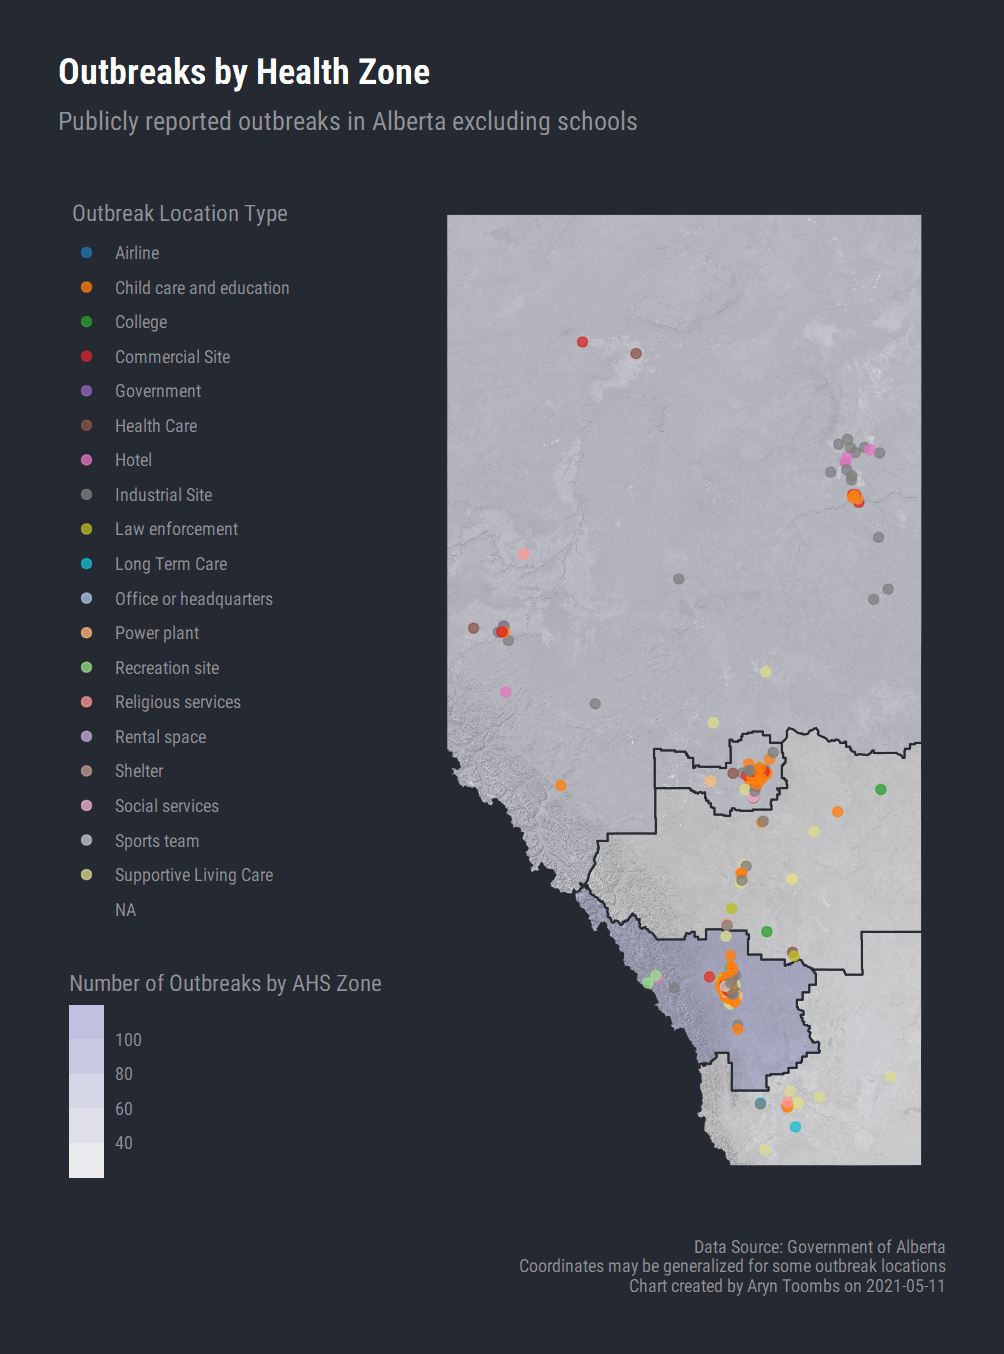
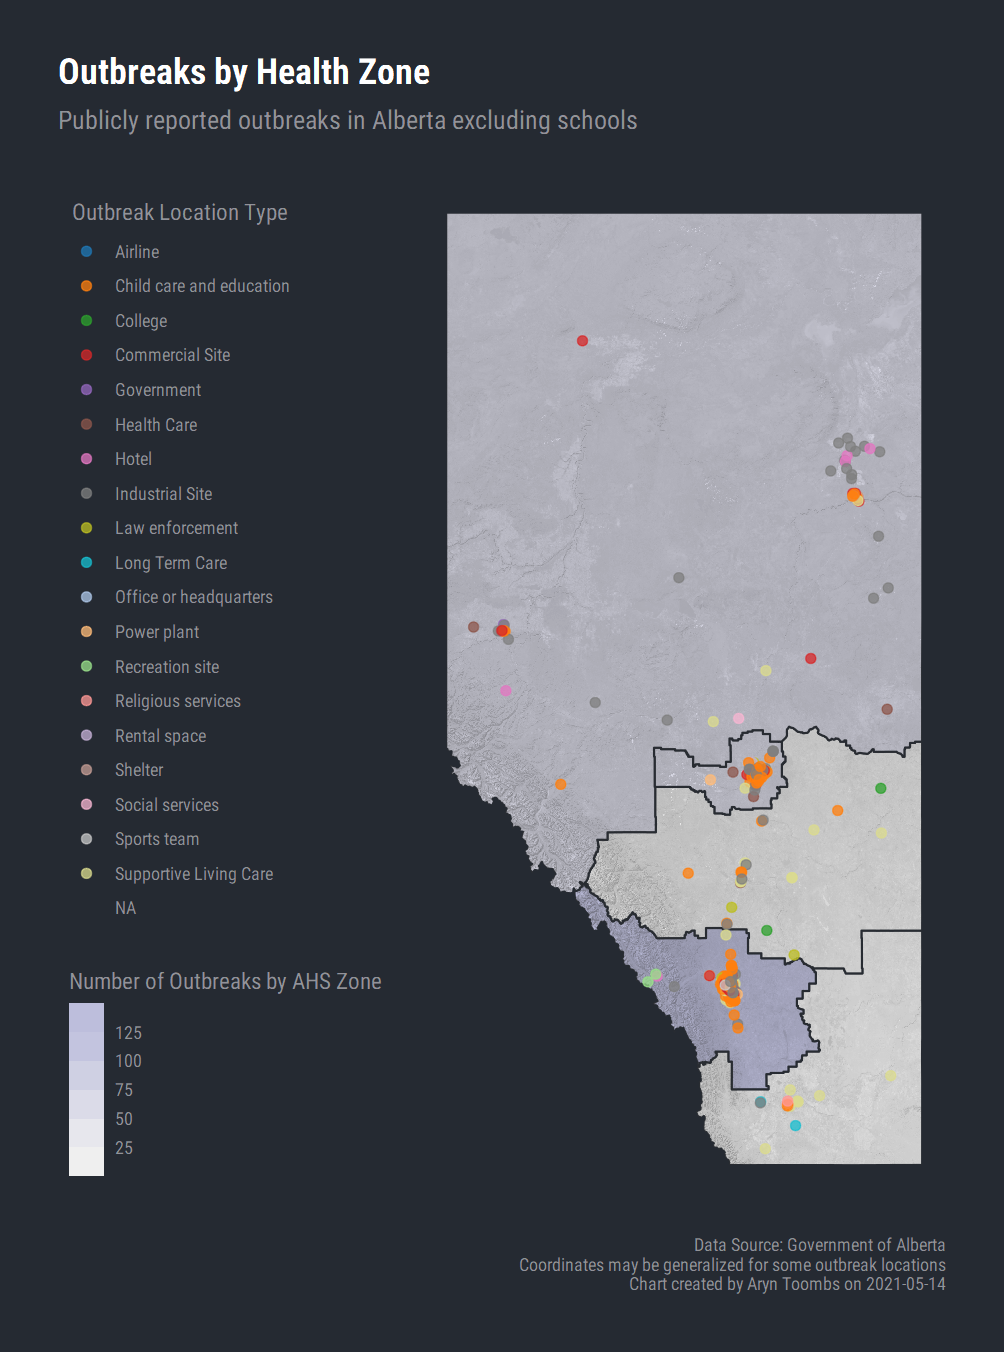
Web

diff --git a/outbreaks/index.html b/outbreaks/index.html
@@ -162,7 +162,7 @@
       Calgary Zone
     </div>
     <div class="row box-bottom justify-content-center">
-      <h4>114</h4>
+      <h4>128</h4>
     </div>
   </div>
   <div class="col-sm ml-1 mr-1">
@@ -170,7 +170,7 @@
       Edmonton Zone
     </div>
     <div class="row box-bottom justify-content-center">
-      <h4>56</h4>
+      <h4>62</h4>
     </div>
   </div>
   <div class="col-sm ml-1 mr-1">
@@ -178,7 +178,7 @@
       South Zone
     </div>
     <div class="row box-bottom justify-content-center">
-      <h4>20</h4>
+      <h4>19</h4>
     </div>
   </div>
   <div class="col-sm ml-1 mr-1">
@@ -186,7 +186,7 @@
       Central Zone
     </div>
     <div class="row box-bottom justify-content-center">
-      <h4>21</h4>
+      <h4>23</h4>
     </div>
   </div>
   <div class="col-sm ml-1 mr-1">
@@ -194,12 +194,12 @@
       North Zone
     </div>
     <div class="row box-bottom justify-content-center">
-      <h4>51</h4>
+      <h4>54</h4>
     </div>
   </div>
 </div>
 <div class="row mb-3 pr-1 pt-1 justify-content-end">
-  <p class="m-1"><i class="bi bi-info-circle-fill"></i> Covid-19 outbreaks (not including schools, see below) current as of Tue, May 11, 2021. AHS non-school outbreak data updated on Tuesdays and Fridays.</p>
+  <p class="m-1"><i class="bi bi-info-circle-fill"></i> Covid-19 outbreaks (not including schools, see below) current as of Fri, May 14, 2021. AHS non-school outbreak data updated on Tuesdays and Fridays.</p>
 </div>
   <div class="row pl-3">
     <h4 class="body-display">Outbreak Charts</h4>
